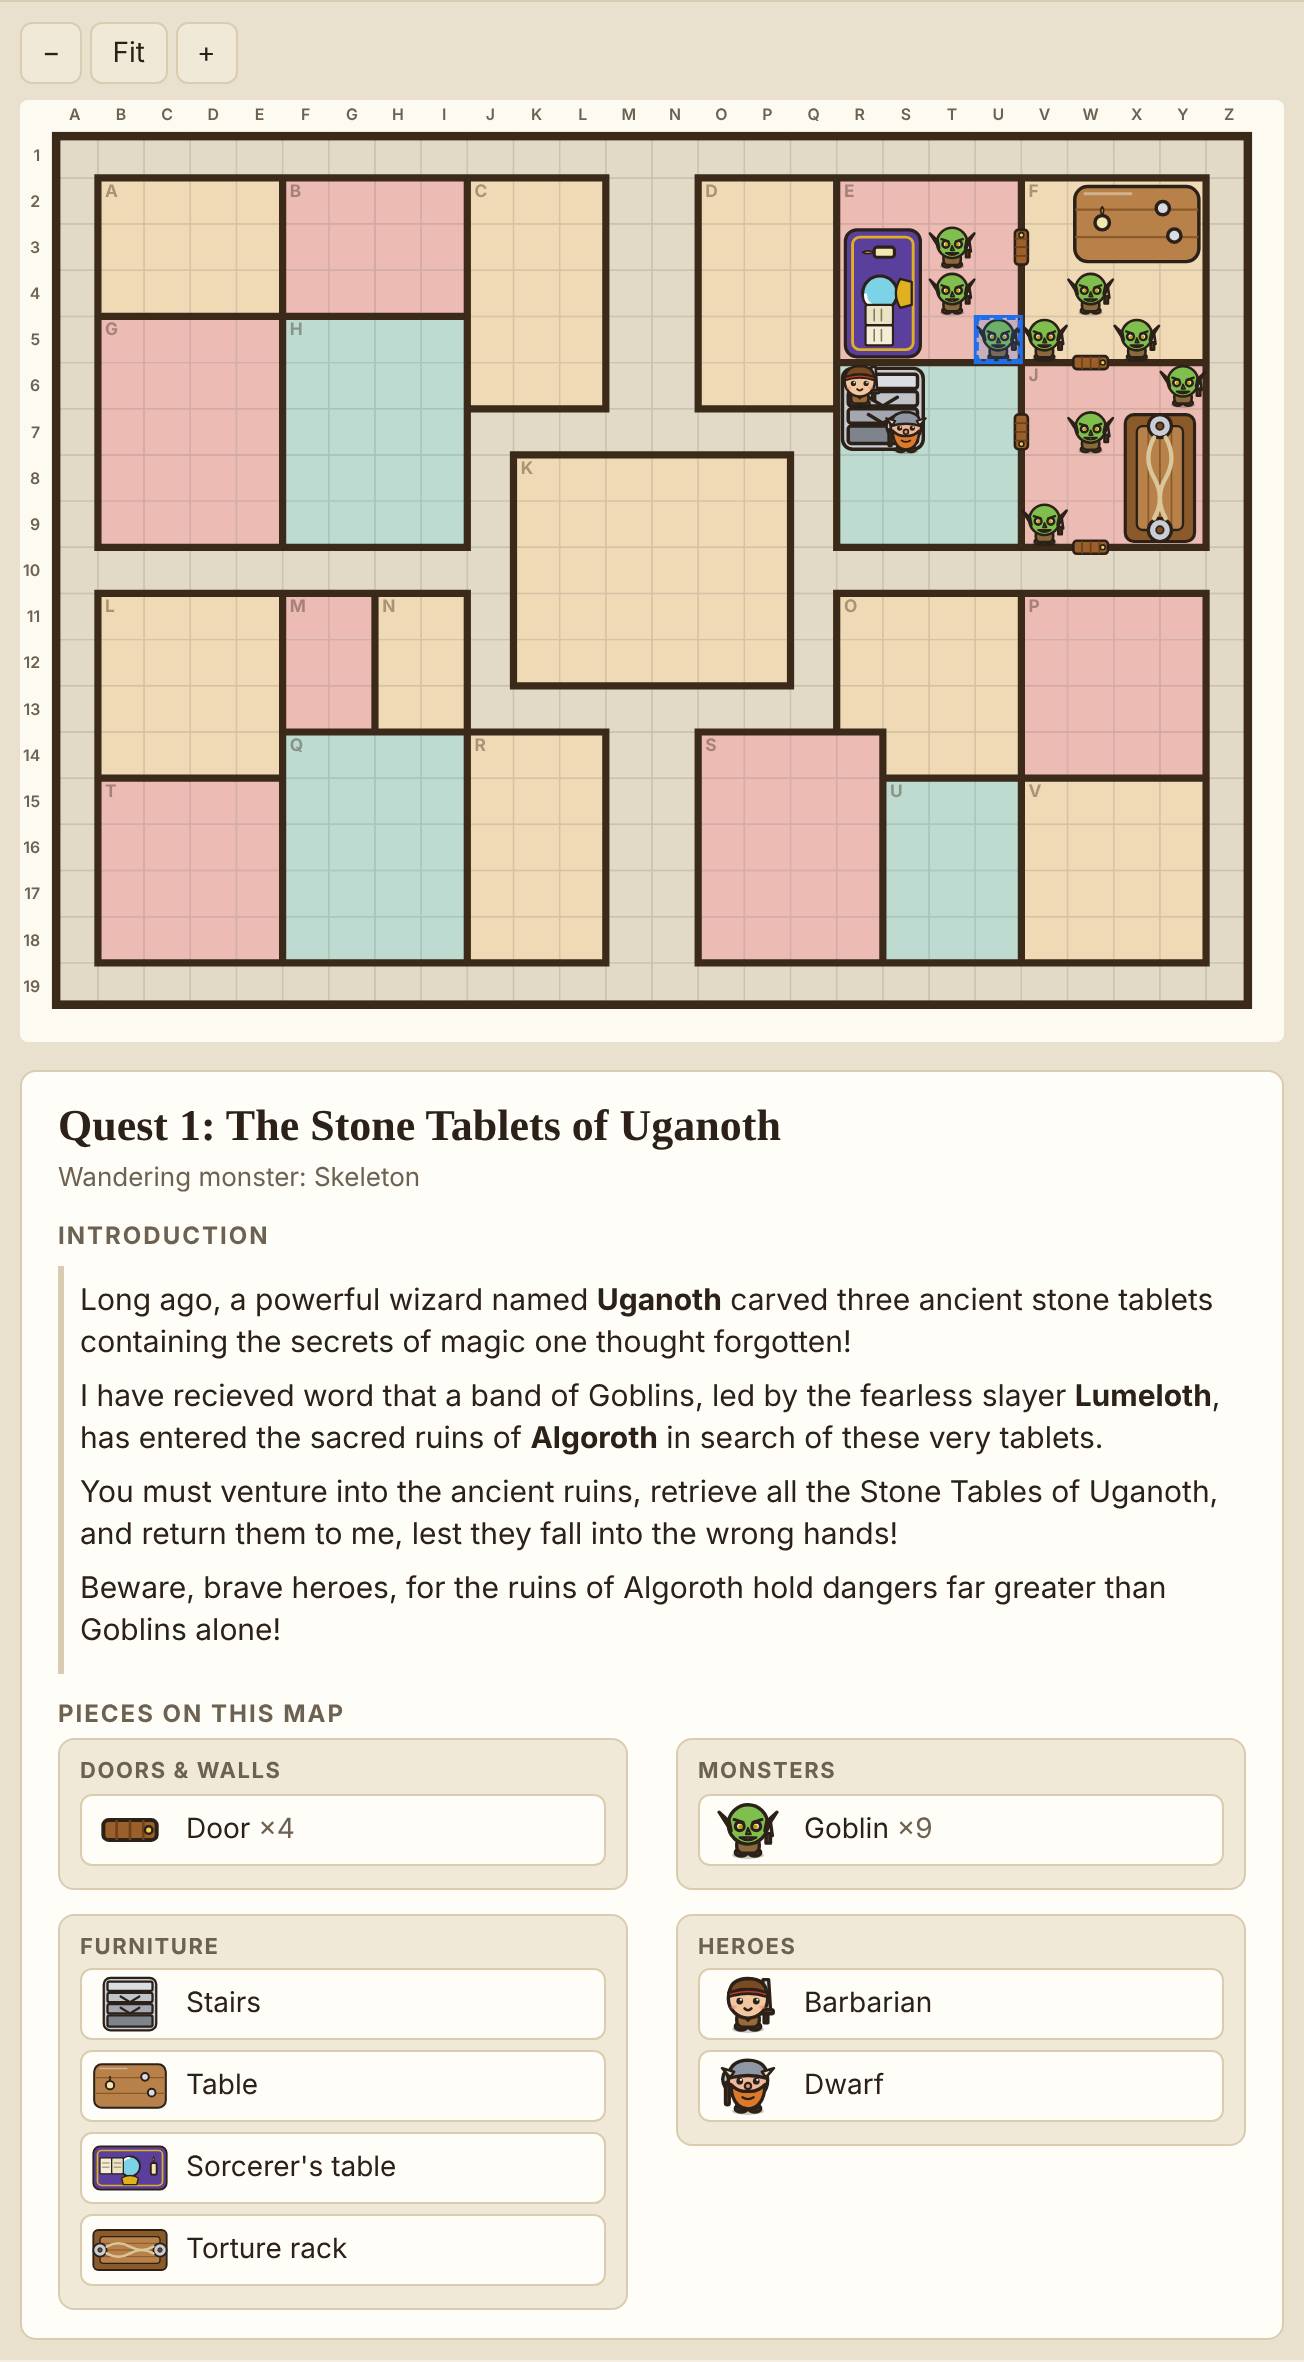
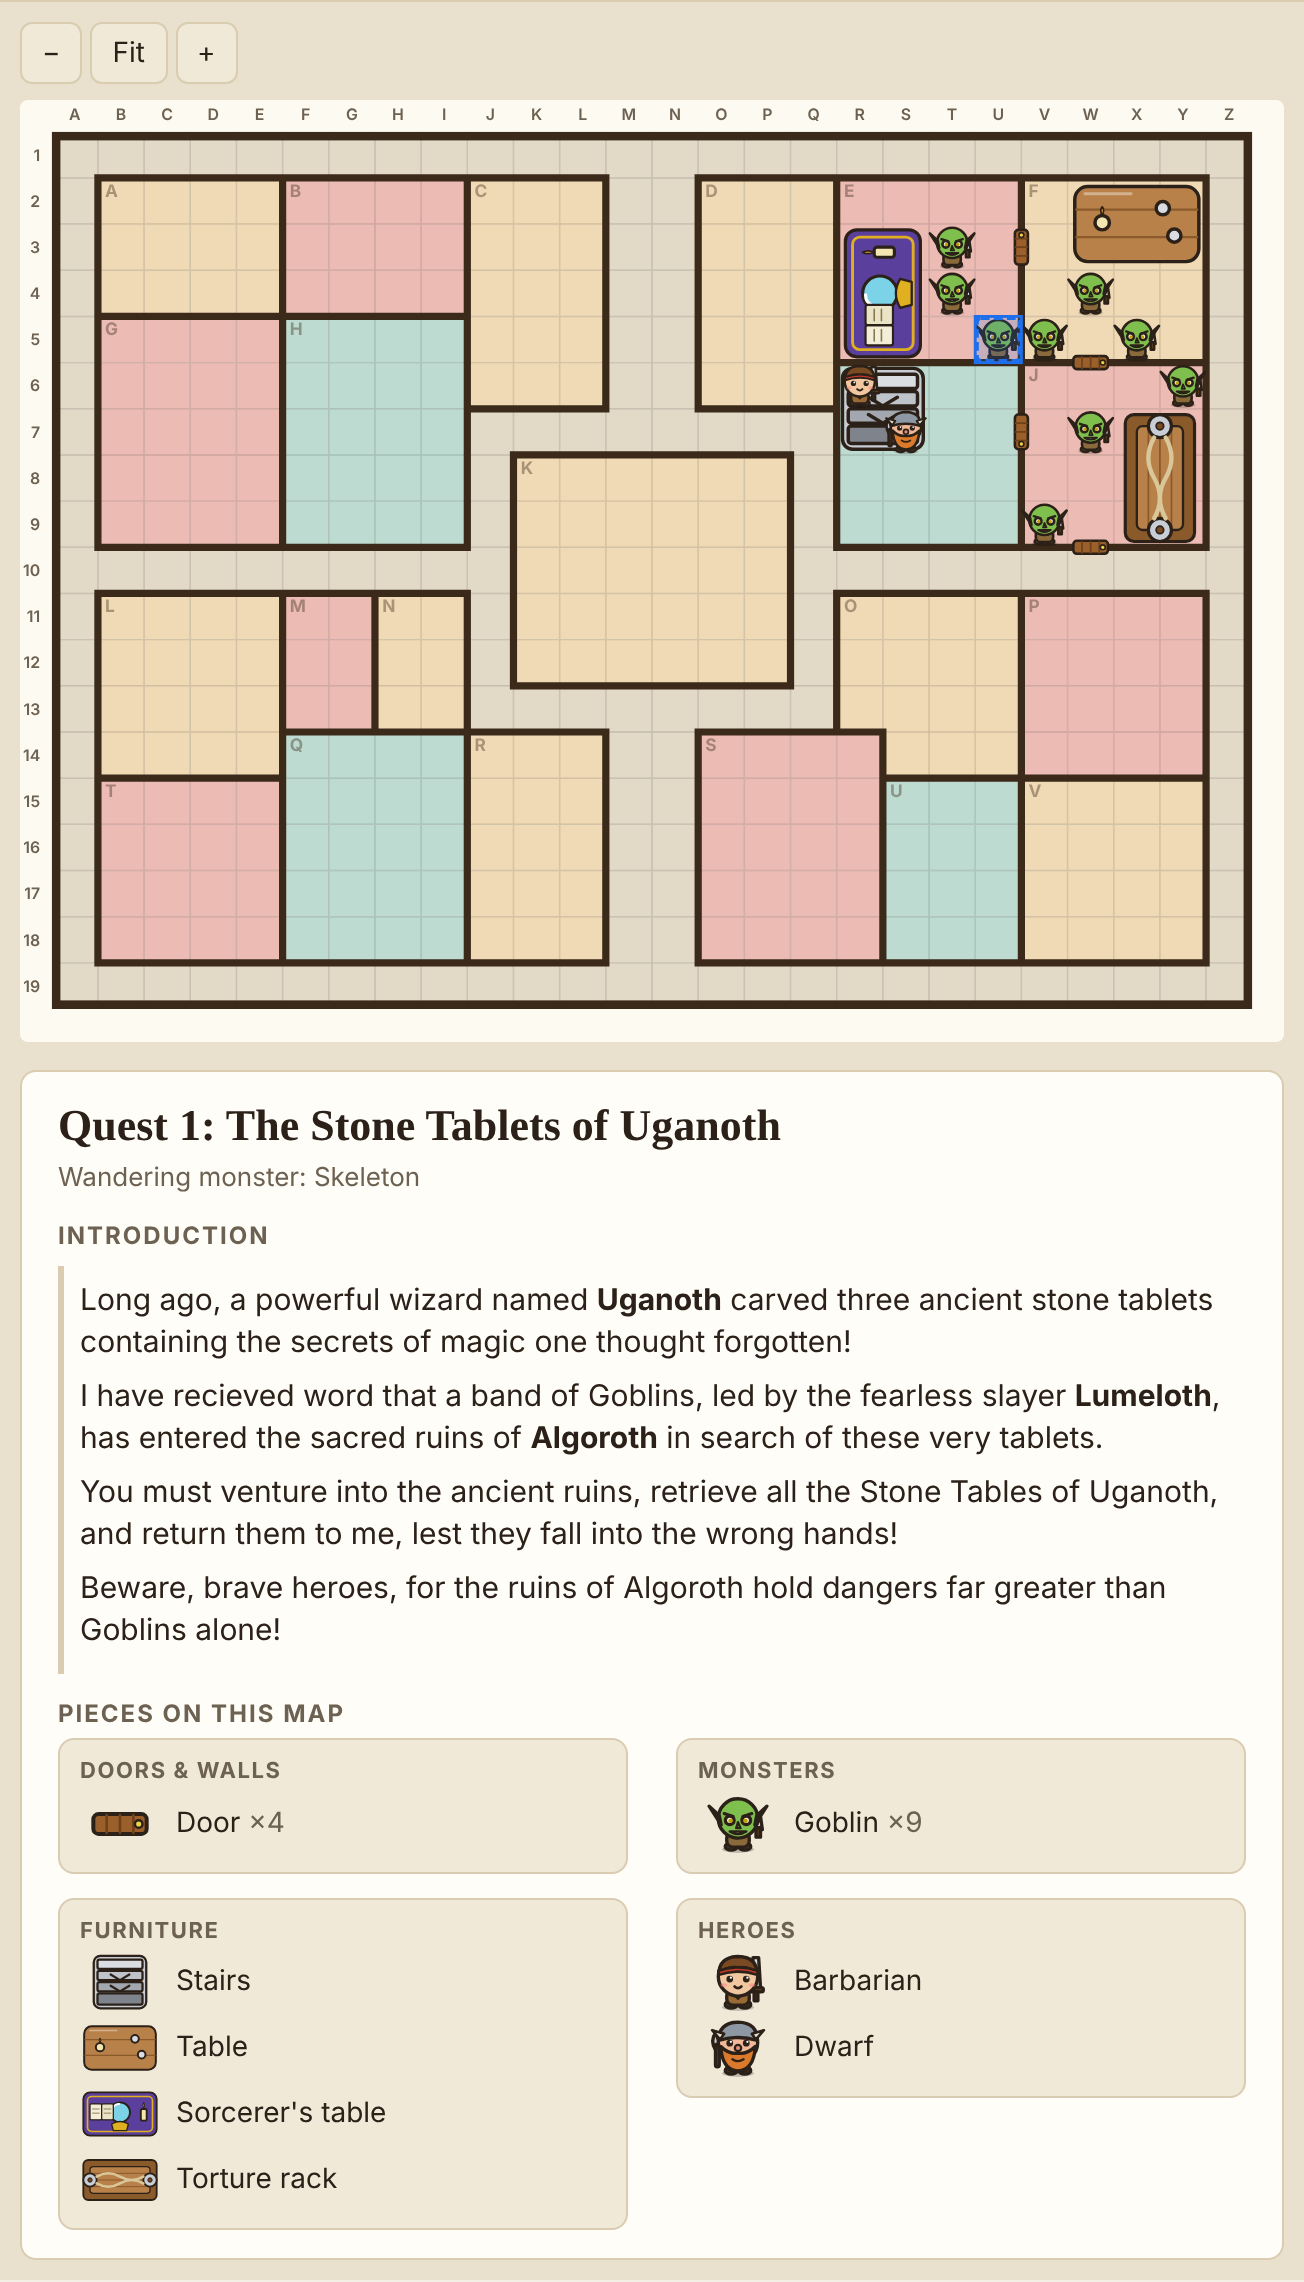
style: keep borders on the key groups only, not on each piece
Remove the border and background from the individual piece rows in the Pieces
on this map key; only the group cards keep their borders. Refresh the
screenshots.

This work was substantially AI-generated with human review and
direction throughout.

Vibe-Coder: Vibe-Coder 1.z3r0 <243014891+vibecoder-1z3r0@users.noreply.github.com>

diff --git a/src/style.css b/src/style.css
@@ -123,7 +123,7 @@ input[type="text"] { width: 100%; }
 .piece-key .keygroup { break-inside: avoid; margin-bottom: 12px; padding: 8px 10px 6px; border: 1px solid var(--border); border-radius: 8px; background: var(--panel2); }
 .piece-key h4 { margin: 0 0 3px; font-size: 11px; text-transform: uppercase; letter-spacing: 0.8px; color: var(--muted); break-after: avoid; }
 .piece-key ul { list-style: none; margin: 0; padding: 0; }
-.piece-key li { display: flex; align-items: center; gap: 8px; margin: 0 0 5px; padding: 2px 8px 2px 4px; break-inside: avoid; border: 1px solid var(--border); border-radius: 6px; background: var(--panel); }
+.piece-key li { display: flex; align-items: center; gap: 8px; margin: 3px 0; break-inside: avoid; }
 .piece-key .keyicon { flex: none; width: 40px; height: 30px; display: flex; align-items: center; justify-content: center; }
 .piece-key .keyicon svg { width: 40px; height: 30px; overflow: visible; }
 .piece-key .keycount { color: var(--muted); }
@@ -185,7 +185,6 @@ kbd { background: var(--panel2); border: 1px solid var(--border); border-radius:
   #printsheet .stats { font-size: 12px; max-width: 420px; }
   #printsheet .piece-key { font-size: 12px; }
   #printsheet .piece-key .keygroup { background: #fff; border-color: #777; }
-  #printsheet .piece-key li { background: #fff; border-color: #999; }
   #printsheet .piece-key h4 { color: #000; }
   #printsheet .piece-key .keycount { color: #000; }
   #printsheet .stats dt, #printsheet .stats dd { color: #000; }
